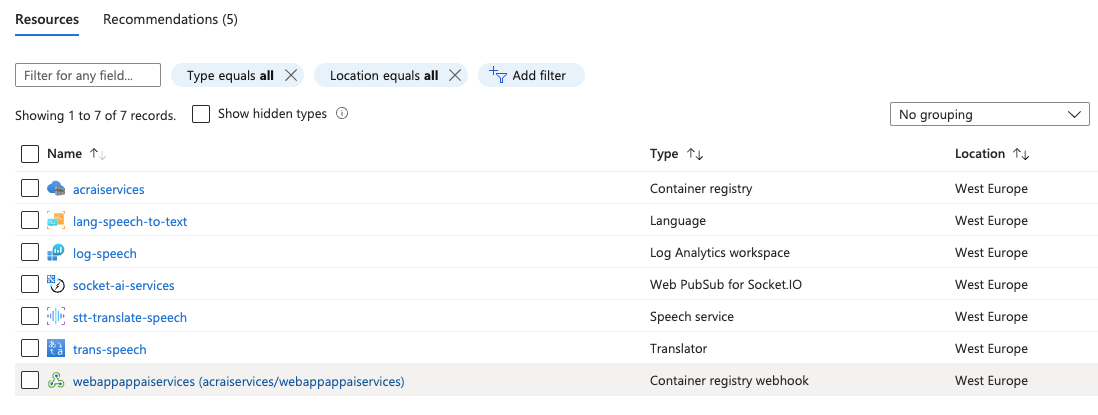
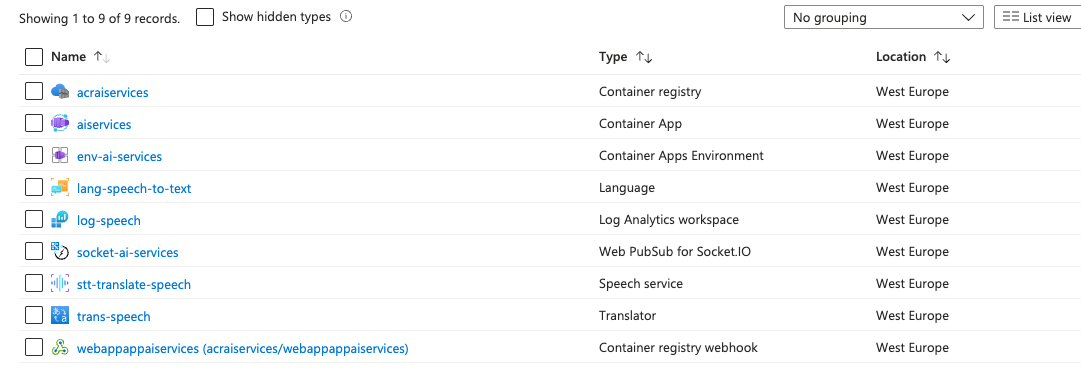
sort back

diff --git a/src/app/App.jsx b/src/app/App.jsx
@@ -29,7 +29,7 @@ export default function App() {
         if (socketEntry.type !== 'message') return;
         if (entries.findIndex((entry) => entry.id === socketEntry.id) !== -1) return;
         const copy = [...entries, socketEntry];
-        copy.sort((a, b) => a.id.localeCompare(b.id));
+        copy.sort((a, b) => b.id.localeCompare(a.id));
         setEntries(copy);
     }, [socketEntry, name, entries, setEntries]);
 

diff --git a/server/socket.js b/server/socket.js
@@ -27,7 +27,7 @@ module.exports = function (app) {
         if (entries.findIndex((e) => e.id === entry.id) !== -1) return;
         console.log(entry);
         entries.push(entry);
-        entries.sort((a, b) => a.id.localeCompare(b.id));
+        entries.sort((a, b) => b.id.localeCompare(a.id));
         broadcast(entry)
     }
 

diff --git a/src/app/layout.js b/src/app/layout.js
@@ -5,7 +5,7 @@ const inter = Inter({ subsets: ["latin"] });
 
 export const metadata = {
   title: "The Client-Side of Azure AI Services",
-  description: "Generated by create next app",
+  description: "Demo app of how to use Azure AI Services on the client-side",
 };
 
 export default function RootLayout({ children }) {

diff --git a/README.md b/README.md
@@ -17,6 +17,13 @@
 
 
 
+## Resources
+
+![Azure AI Services](/assets/azure-resources.png)
+
+
+
+
 ## Links
 
 * [How to use conversation summarization](https://learn.microsoft.com/en-us/azure/ai-services/language-service/summarization/how-to/conversation-summarization)
